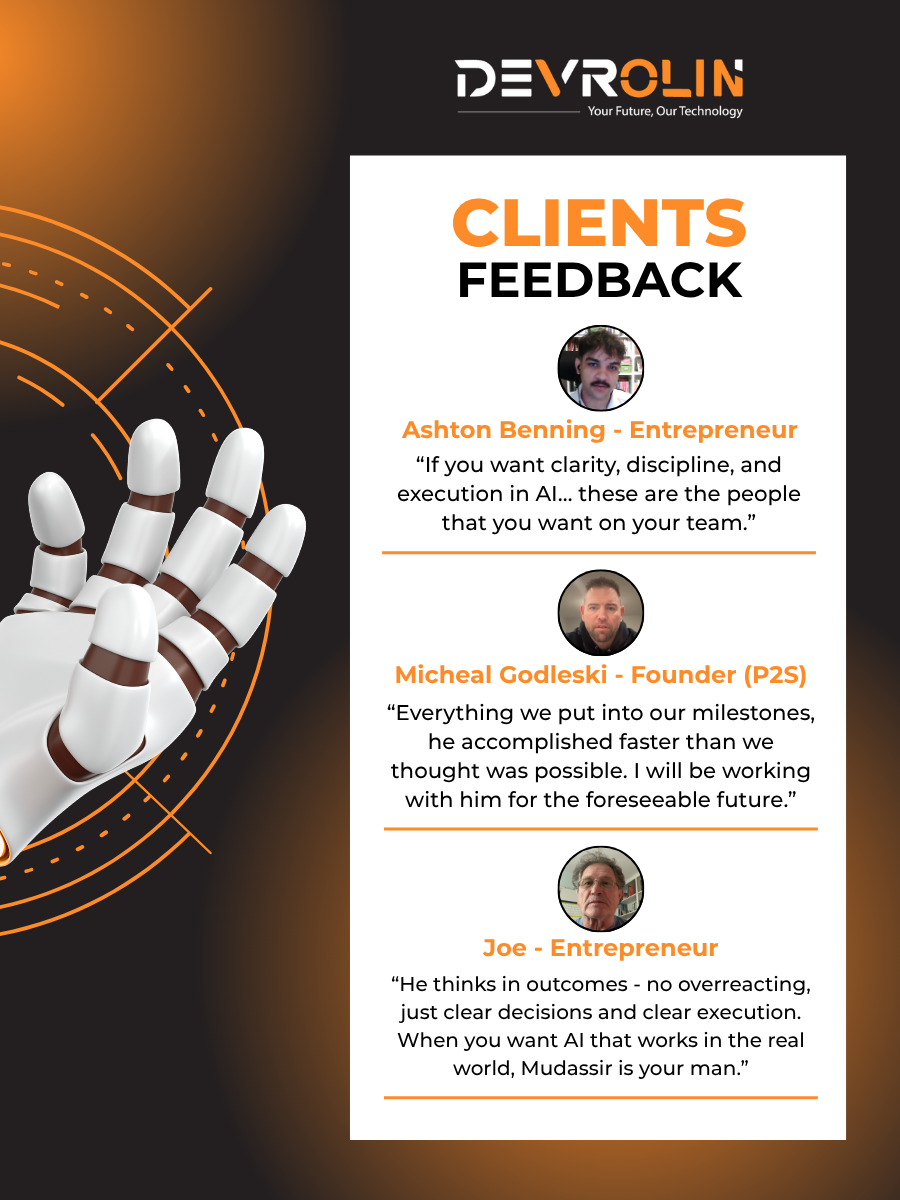
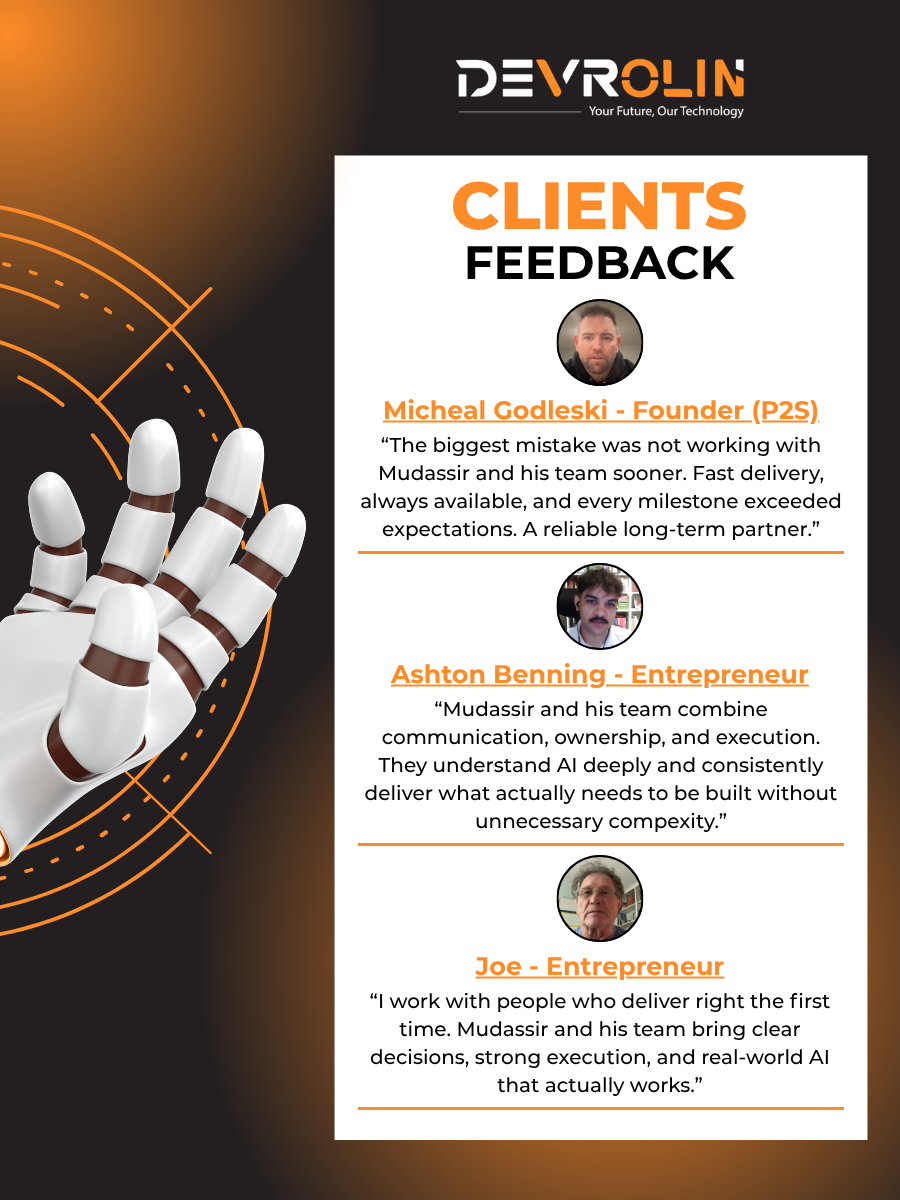
content replace

Changed region(s): [[0.3733, 0.1233, 0.9644, 0.9558], [0.6533, 0.0308, 0.84, 0.0925], [0.4978, 0.0617, 0.56, 0.0925]]

diff --git a/src/components/layout/banner/HomeOneBanner.tsx b/src/components/layout/banner/HomeOneBanner.tsx
@@ -52,16 +52,14 @@ const HomeOneBanner = () => {
             <div className="col-12">
               <div className="banner__content">
                 <h1 className="text-uppercase text-start fw-9 mb-0 title-anim">
-                  We are a<span className="text-stroke"> premier</span>
+                  We build a<span className="text-stroke"> system</span>
                   <span className="interval">
-                    <i className="icon-arrow-top-right"></i> software company
+                    <i className="icon-arrow-top-right"></i> that make you more money
                   </span>
                 </h1>
                 <div className="banner__content-inner">
                   <p>
-                    We’re a Dubai-based leading software firm, driving
-                    innovation in AI, blockchain, and design while building
-                    strong partnerships for success.{" "}
+                  Dubai-based firm building AI, SaaS, and CRM systems that turn your business into a revenue machine without hiring more people.{" "}
                   </p>
                   <div className="cta section__content-cta">
                     <div className="single">

diff --git a/src/components/containers/home/HomeOffer.tsx b/src/components/containers/home/HomeOffer.tsx
@@ -59,18 +59,16 @@ const HomeOffer = () => {
                 <i className="fa-solid fa-arrow-right"></i>
               </span>
               <h2 className="title title-anim">
-                Giving Your Business Some Great Ideas
+                Solutions That Scale Your Business
               </h2>
               <div className="paragraph">
                 <p>
-                  Bring to the table win-win survival strategies to ensure
-                  Game-Changing strategies leading brands toward a smarter,
-                  Intelligent Transformation.
+                  We design AI, SaaS, and CRM systems with deep integrations across your tools to automate operations, remove bottlenecks, and create predictable growth.
                 </p>
               </div>
               <div className="section__content-cta">
                 <Link href="our-services" className="btn btn--secondary">
-                  view all services
+                  view all systems
                 </Link>
               </div>
             </div>

diff --git a/src/components/containers/home/Agency.tsx b/src/components/containers/home/Agency.tsx
@@ -289,9 +289,7 @@ const Agency = () => {
               </h2>
               <div className="paragraph">
                 <p>
-                  Bring to the table win-win survival strategies to ensure
-                  Game-Changing strategies leading brands toward a smarter,
-                  Intelligent Transformation.
+                 AI, SaaS, and CRM systems with cross-platform integrations that replace manual work, eliminate bottlenecks, and turn your operations into scalable revenue.
                 </p>
               </div>
 

diff --git a/src/components/containers/home/HomeTestimonial.tsx b/src/components/containers/home/HomeTestimonial.tsx
@@ -182,7 +182,7 @@ const HomeTestimonial = () => {
               <div className="testimonial__text-slider-single">
                 <h2 className="h1">
                   <Link href="client-feedback">
-                    client&apos;s testimonial
+                    client&apos;s results
                     <i className="fa-sharp fa-solid fa-arrow-down-right"></i>
                   </Link>
                 </h2>

diff --git a/src/components/containers/home/PortfolioText.tsx b/src/components/containers/home/PortfolioText.tsx
@@ -123,7 +123,7 @@ const PortfolioText = () => {
             <SwiperSlide key={i}>
               <div className="portfolio__text-slider-single">
                 <h2 className={`h1${i % 2 !== 0 ? " str" : ""}`}>
-                  Project Highlights
+                  Systems built
                   <i className="fa-sharp fa-solid fa-arrow-down-right"></i>
                 </h2>
               </div>
